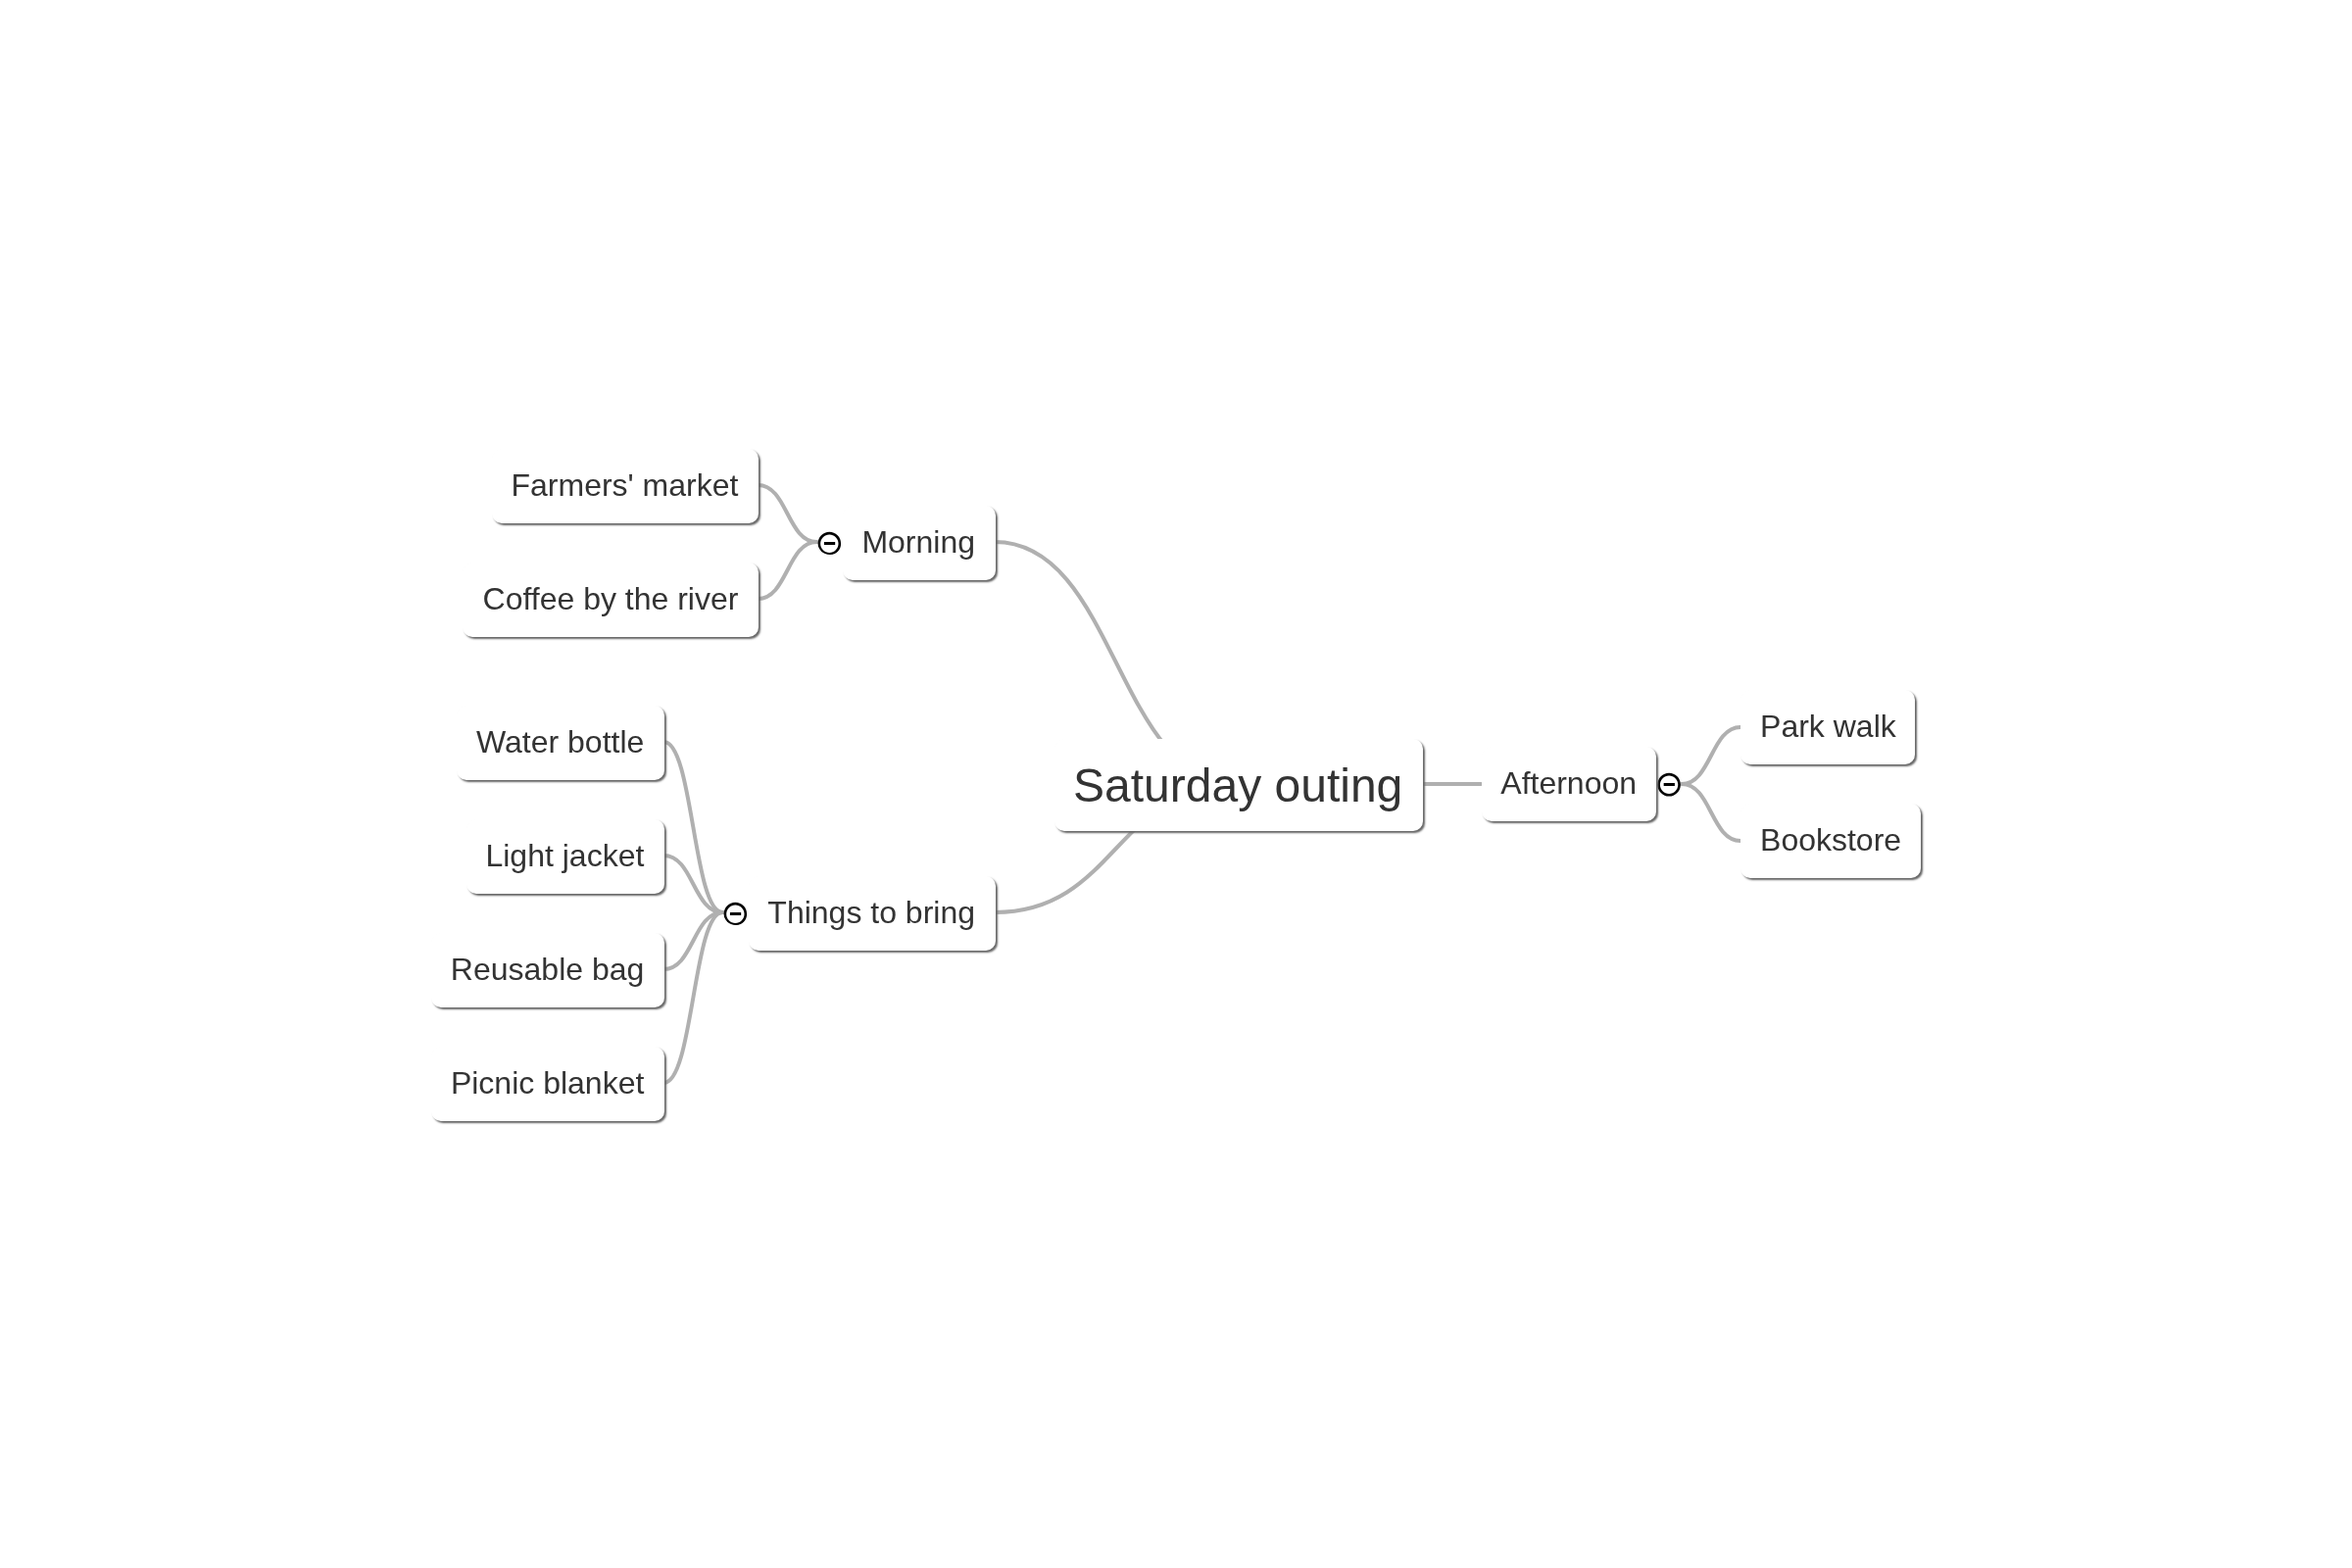
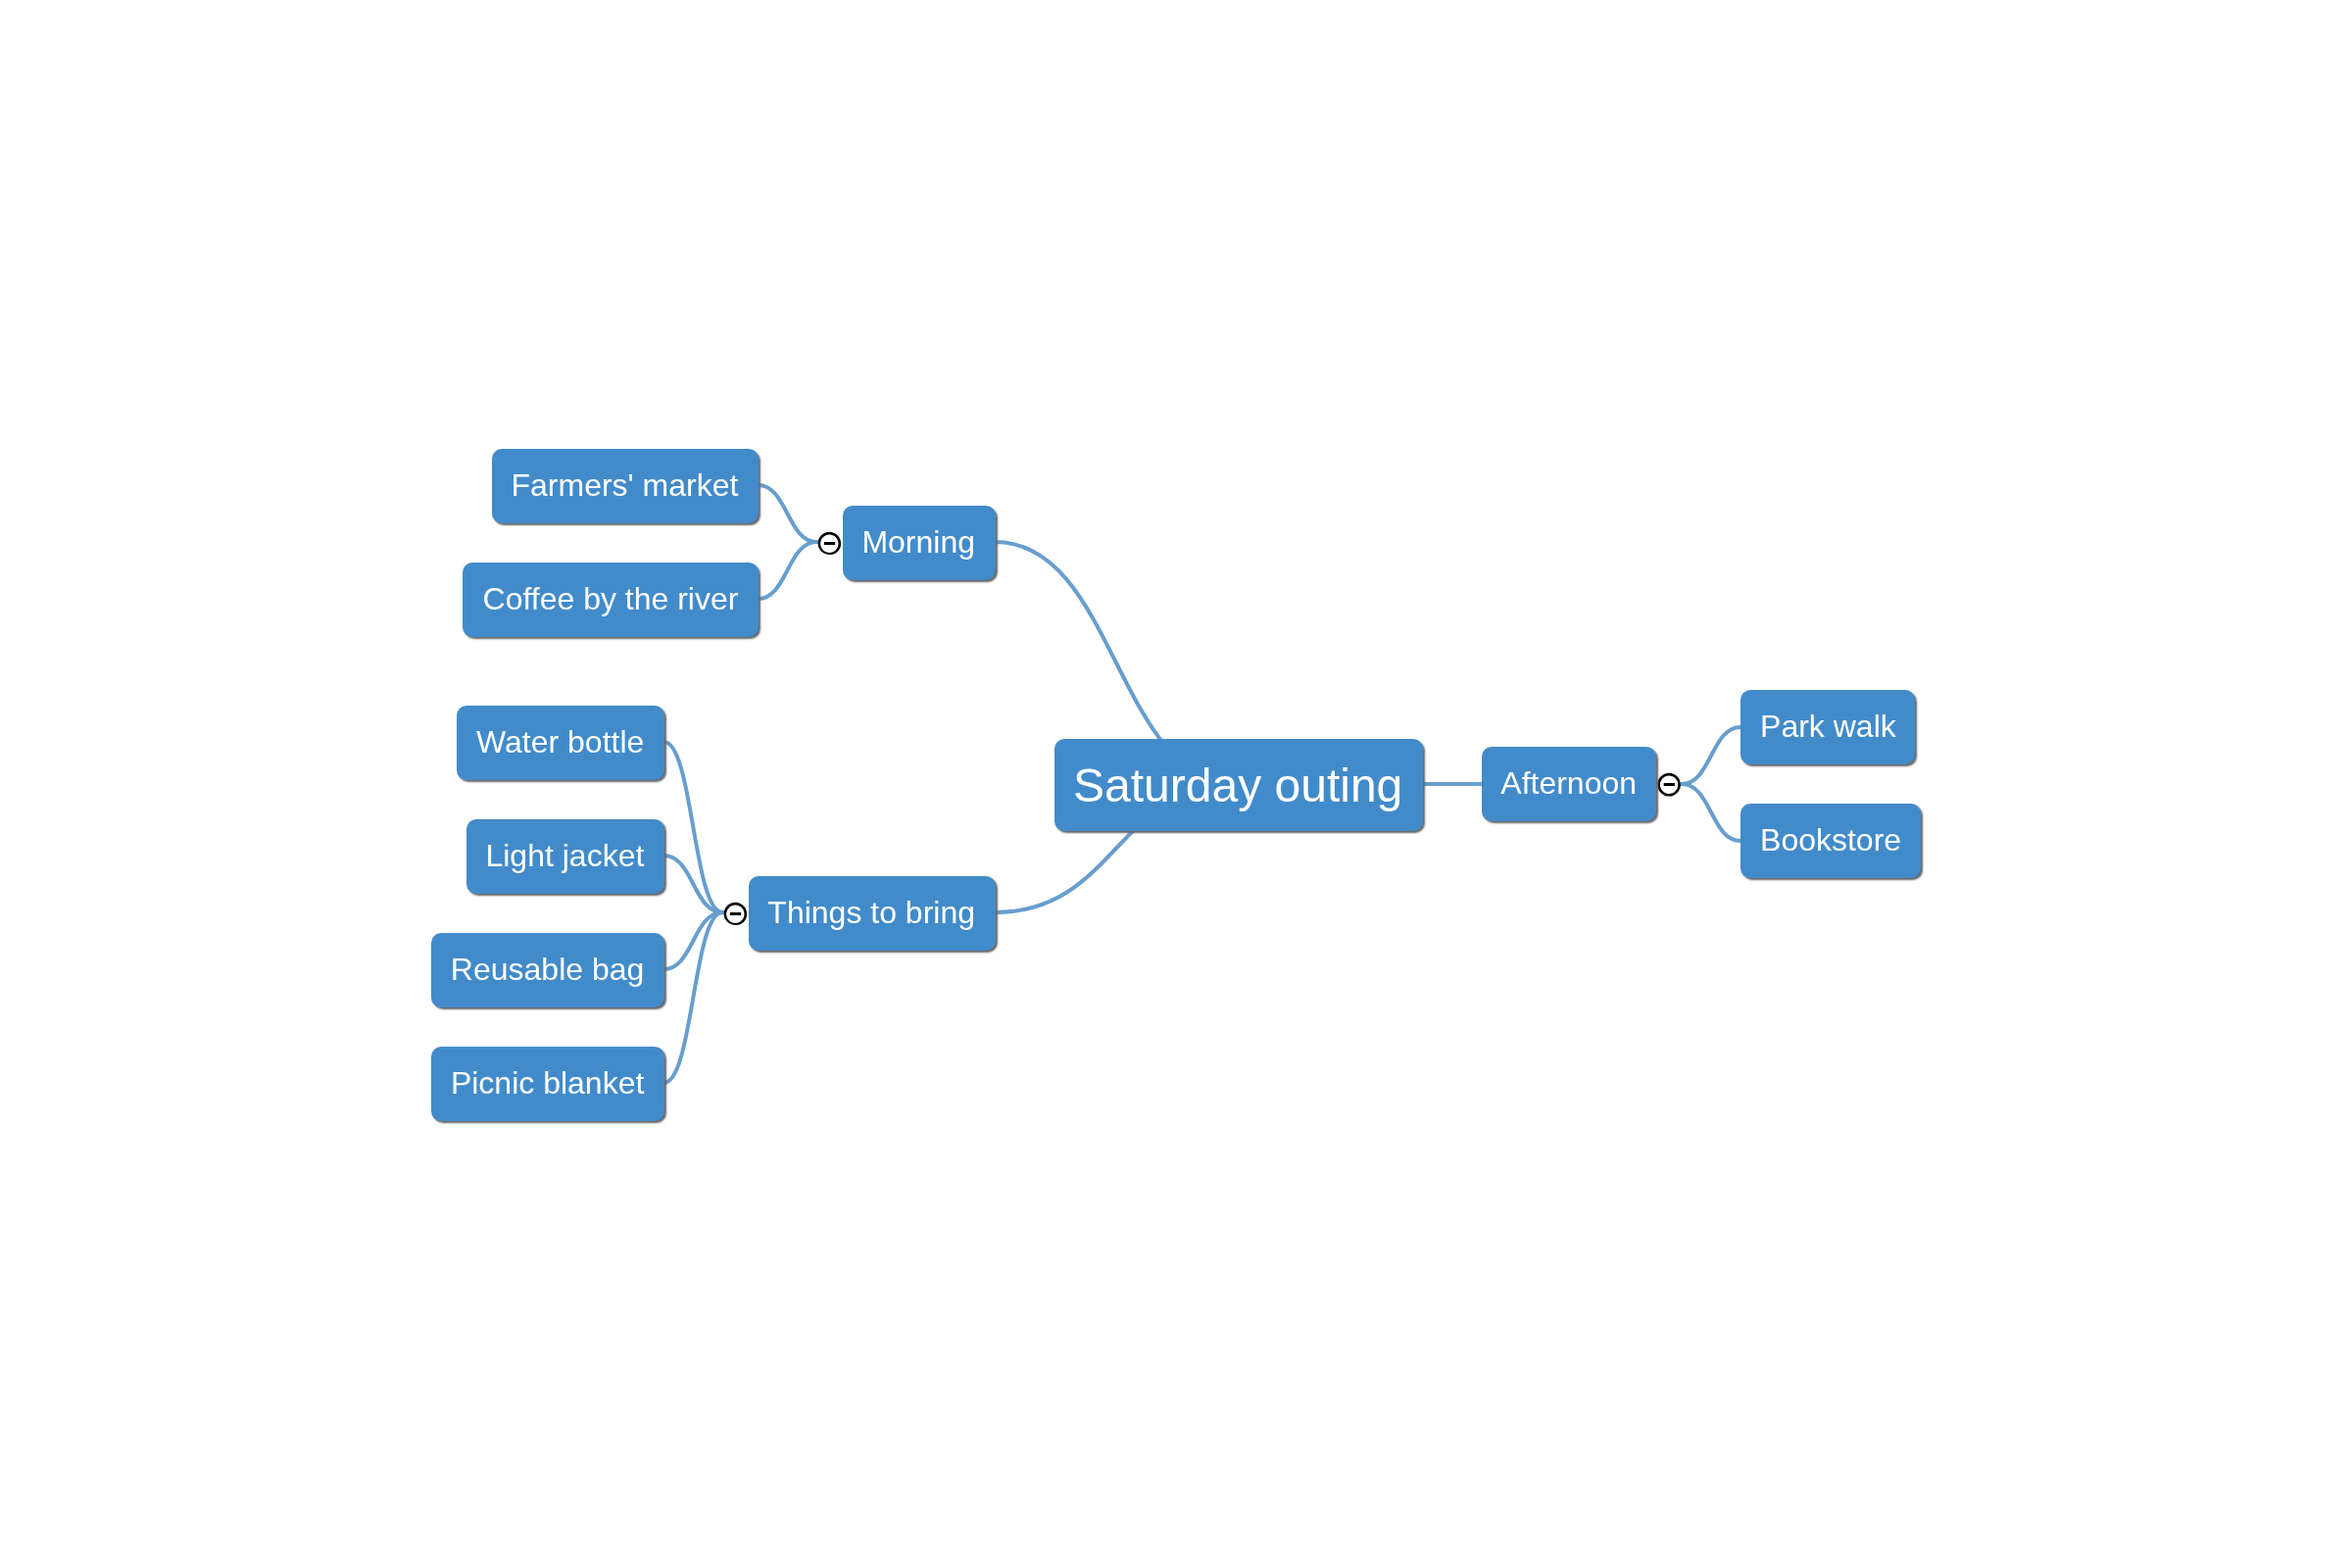
docs(tutorials): give the first walkthrough a primary tone
Add a step after the picnic-blanket edit that sets the document
default tone to primary, then export again. The first-export
screenshots stay on the default white tone; the finished PNG and
example map now use primary.

Changed region(s): [[0.1562, 0.4375, 0.4375, 0.7188], [0.4375, 0.4375, 0.8438, 0.5625], [0.1875, 0.2812, 0.4375, 0.4062]]

diff --git a/tutorials/en/posts/161-first-mind-map-with-skill.md b/tutorials/en/posts/161-first-mind-map-with-skill.md
@@ -28,6 +28,8 @@ A compact map with a root, three first-level branches, and a few children:
   - **Afternoon** (right): Park walk, Bookstore
   - **Things to bring** (left): Water bottle, Light jacket, Reusable bag, and — after a small edit — Picnic blanket
 
+After that, you give the whole map a blue (`primary`) tone, so the finished picture is no longer the plain white default.
+
 The finished map is here to download: <a :href="exampleMap" download="saturday-outing.jm">161-example.jm</a>.
 
 ## What you need
@@ -191,6 +193,26 @@ saturday-outing.jm: valid
 
 $ npx jsmind@2 export saturday-outing.jm saturday-outing.png
 saturday-outing.png: 2400x1600 (164.9 KB)
+```
+
+## Give the whole map a colour
+
+The default tone is white, which is what the first export used. One command can change the colour of every node that does not have its own tone. That command is `mind set-style`; you do not colour each node with `node set-style`.
+
+The stock tones include `default` (white), `primary` (blue), `success` (green), `warning` (orange), `danger` (red), `info` (light blue), and `accent` (purple). This walkthrough uses `primary`. If a node already had its own tone, that tone would still win.
+
+Ask the agent:
+
+```
+Using the jsMind skill, open saturday-outing.jm, set the document default tone to primary, and export it again as saturday-outing.png.
+```
+
+```
+$ npx jsmind@2 mind set-style saturday-outing.jm --default-tone primary
+set style of saturday-outing.jm: default-tone=primary
+
+$ npx jsmind@2 export saturday-outing.jm saturday-outing.png
+saturday-outing.png: 2400x1600 (174.5 KB)
 ```
 
 ![The finished Saturday outing mind map](../../assets/161-result.png)

diff --git a/tutorials/zh/posts/161-first-mind-map-with-skill.md b/tutorials/zh/posts/161-first-mind-map-with-skill.md
@@ -28,6 +28,8 @@ import exampleMap from '../../assets/161-example.jm?url';
   - **下午**（右侧）：公园散步、书店
   - **随身带**（左侧）：水瓶、薄外套、购物袋，改过一次之后再加上「野餐垫」
 
+然后再给整张导图换上蓝色（`primary`），成品就不再是默认的白色了。
+
 做好的导图可以在这里下载：<a :href="exampleMap" download="saturday-outing.jm">161-example.jm</a>。
 
 ## 你需要准备什么
@@ -191,6 +193,26 @@ saturday-outing.jm: valid
 
 $ npx jsmind@2 export saturday-outing.jm saturday-outing.png
 saturday-outing.png: 2400x1600 (144.6 KB)
+```
+
+## 给整张导图换个颜色
+
+默认色调是白色，第一次导出用的就是它。一条命令就能改掉所有还没有自己色调的节点。这条命令是 `mind set-style`，不必对每个节点再跑一遍 `node set-style`。
+
+现成的色调有 `default`（白）、`primary`（蓝）、`success`（绿）、`warning`（橙）、`danger`（红）、`info`（浅蓝）和 `accent`（紫）。这次演示用 `primary`。如果某个节点已经有自己的色调，仍然以节点自己的为准。
+
+把下面这段交给 agent：
+
+```
+请使用 jsMind skill，打开 saturday-outing.jm，把整张导图的默认色调设为 primary，并再次导出为 saturday-outing.png。
+```
+
+```
+$ npx jsmind@2 mind set-style saturday-outing.jm --default-tone primary
+set style of saturday-outing.jm: default-tone=primary
+
+$ npx jsmind@2 export saturday-outing.jm saturday-outing.png
+saturday-outing.png: 2400x1600 (150.2 KB)
 ```
 
 ![完成后的周六出游思维导图](../../assets/161-result.png)
